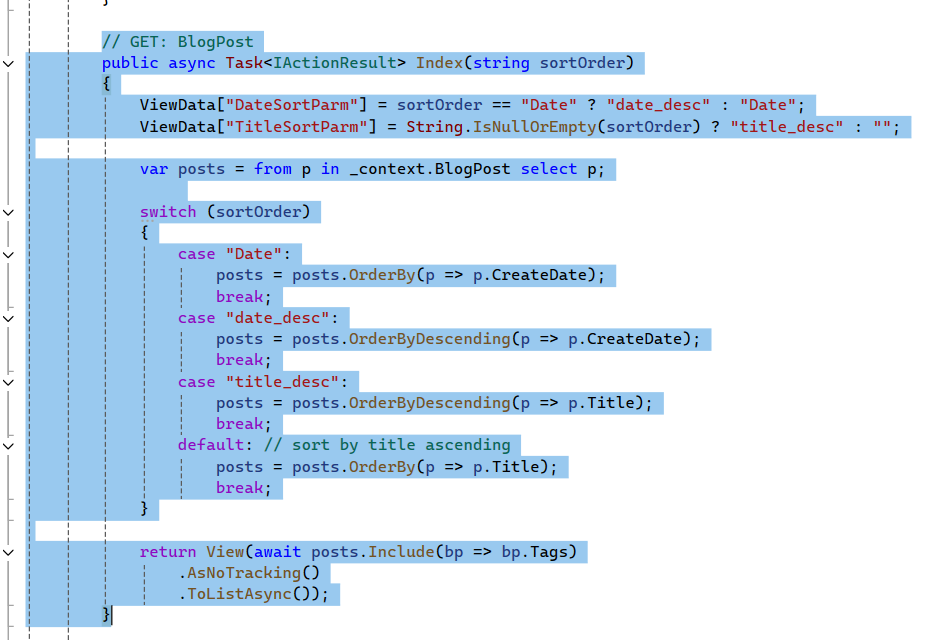
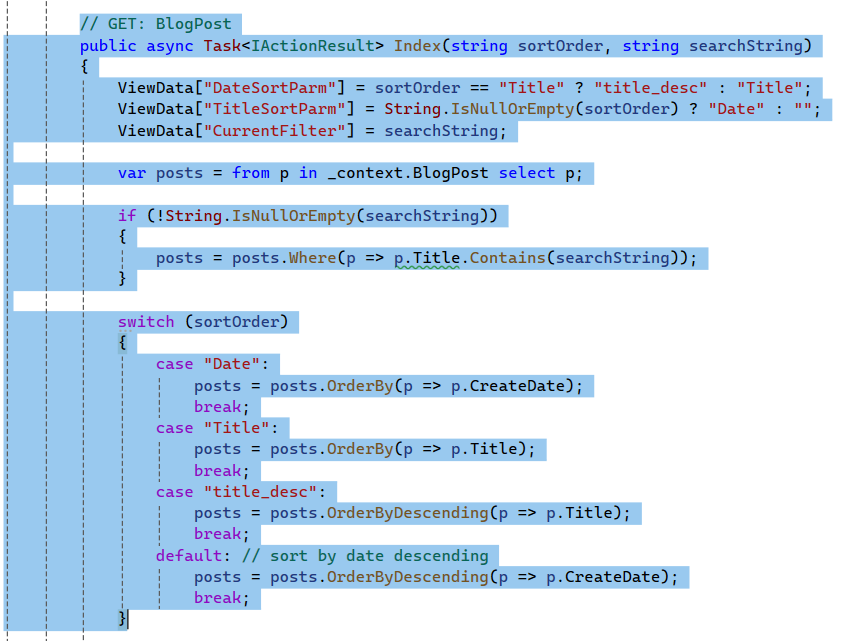
AB#31 Added paging

diff --git a/Controllers/BlogPostController.cs b/Controllers/BlogPostController.cs
@@ -8,6 +8,7 @@ using Microsoft.AspNetCore.Mvc.Rendering;
 using Microsoft.Data.SqlClient;
 using Microsoft.EntityFrameworkCore;
 using MvcBlog.Data;
+using MvcBlog.Infrastructure;
 using MvcBlog.Models;
 
 namespace MvcBlog.Controllers
@@ -22,10 +23,30 @@ namespace MvcBlog.Controllers
         }
 
         // GET: BlogPost
-        public async Task<IActionResult> Index(string sortOrder, string searchString)
+        public async Task<IActionResult> Index(
+            string sortOrder, 
+            string currentFilter,
+            string searchString,
+            int? pageNumber
+            )
         {
-            ViewData["DateSortParm"] = sortOrder == "Date" ? "date_desc" : "Date";
-            ViewData["TitleSortParm"] = String.IsNullOrEmpty(sortOrder) ? "title_desc" : "";
+            ViewData["CurrentSort"] = sortOrder;
+            ViewData["DateSortParm"] = sortOrder == "Title" ? "title_desc" : "Title";
+            ViewData["TitleSortParm"] = String.IsNullOrEmpty(sortOrder) ? "Date" : "";
+
+            // entering a new searchstring affects the number of pages, so 
+            // reset to page 1
+            // otherwise, persist the saved search string
+            if (searchString != null)
+            {
+                pageNumber = 1;
+            }
+            else
+            {
+                searchString = currentFilter;
+            }
+
+            // save the current search for if they arrow through the results
             ViewData["CurrentFilter"] = searchString;
 
             var posts = from p in _context.BlogPost select p;
@@ -34,26 +55,29 @@ namespace MvcBlog.Controllers
             {
                 posts = posts.Where(p => p.Title.Contains(searchString));
             }
-                
+
             switch (sortOrder)
             {
                 case "Date":
                     posts = posts.OrderBy(p => p.CreateDate);
                     break;
-                case "date_desc":
-                    posts = posts.OrderByDescending(p => p.CreateDate);
+                case "Title":
+                    posts = posts.OrderBy(p => p.Title);
                     break;
                 case "title_desc":
                     posts = posts.OrderByDescending(p => p.Title);
                     break;
-                default: // sort by title ascending
-                    posts = posts.OrderBy(p => p.Title);
+                default: // sort by date descending
+                    posts = posts.OrderByDescending(p => p.CreateDate);
                     break;
             }
 
-            return View(await posts.Include(bp => bp.Tags)
-                .AsNoTracking()
-                .ToListAsync());
+            int pageSize = 3;
+            IQueryable<BlogPost> postsQuery = posts.Include(bp => bp.Tags)
+                .AsNoTracking();               ;
+            return View(new BlogPostListViewModel() { BlogPosts = await PaginatedList<BlogPost>.CreateAsync(
+                postsQuery, pageNumber ?? 1, pageSize)
+                });
         }
 
         // POST: AddTag

diff --git a/Infrastructure/PaginatedList.cs b/Infrastructure/PaginatedList.cs
@@ -1,0 +1,29 @@
+using Microsoft.EntityFrameworkCore;
+
+namespace MvcBlog.Infrastructure
+{
+    public class PaginatedList<T> : List<T>
+    {
+        public int PageIndex { get; private set; }
+        public int TotalPages { get; private set; }
+
+        public PaginatedList(List<T> items, int itemCount, int pageIndex, int pageSize)
+        {
+            PageIndex = pageIndex;
+            TotalPages = (int)Math.Ceiling(itemCount / (double)pageSize);
+
+            this.AddRange(items);
+        }
+
+        public bool HasPreviousPage => PageIndex > 1;
+
+        public bool HasNextPage => PageIndex < TotalPages;
+
+        public static async Task<PaginatedList<T>> CreateAsync(IQueryable<T> source, int pageIndex, int pageSize)
+        {
+            var count = await source.CountAsync();
+            var items = await source.Skip((pageIndex - 1) * pageSize).Take(pageSize).ToListAsync();
+            return new PaginatedList<T>(items, count, pageIndex, pageSize);
+        }
+    }
+}

diff --git a/Models/ViewModels/BlogPostListViewModel.cs b/Models/ViewModels/BlogPostListViewModel.cs
@@ -1,0 +1,10 @@
+using MvcBlog.Infrastructure;
+
+namespace MvcBlog.Models
+{
+    public class BlogPostListViewModel
+    {
+        public PaginatedList<MvcBlog.Models.BlogPost>? BlogPosts { get; set; }
+
+    }
+}
